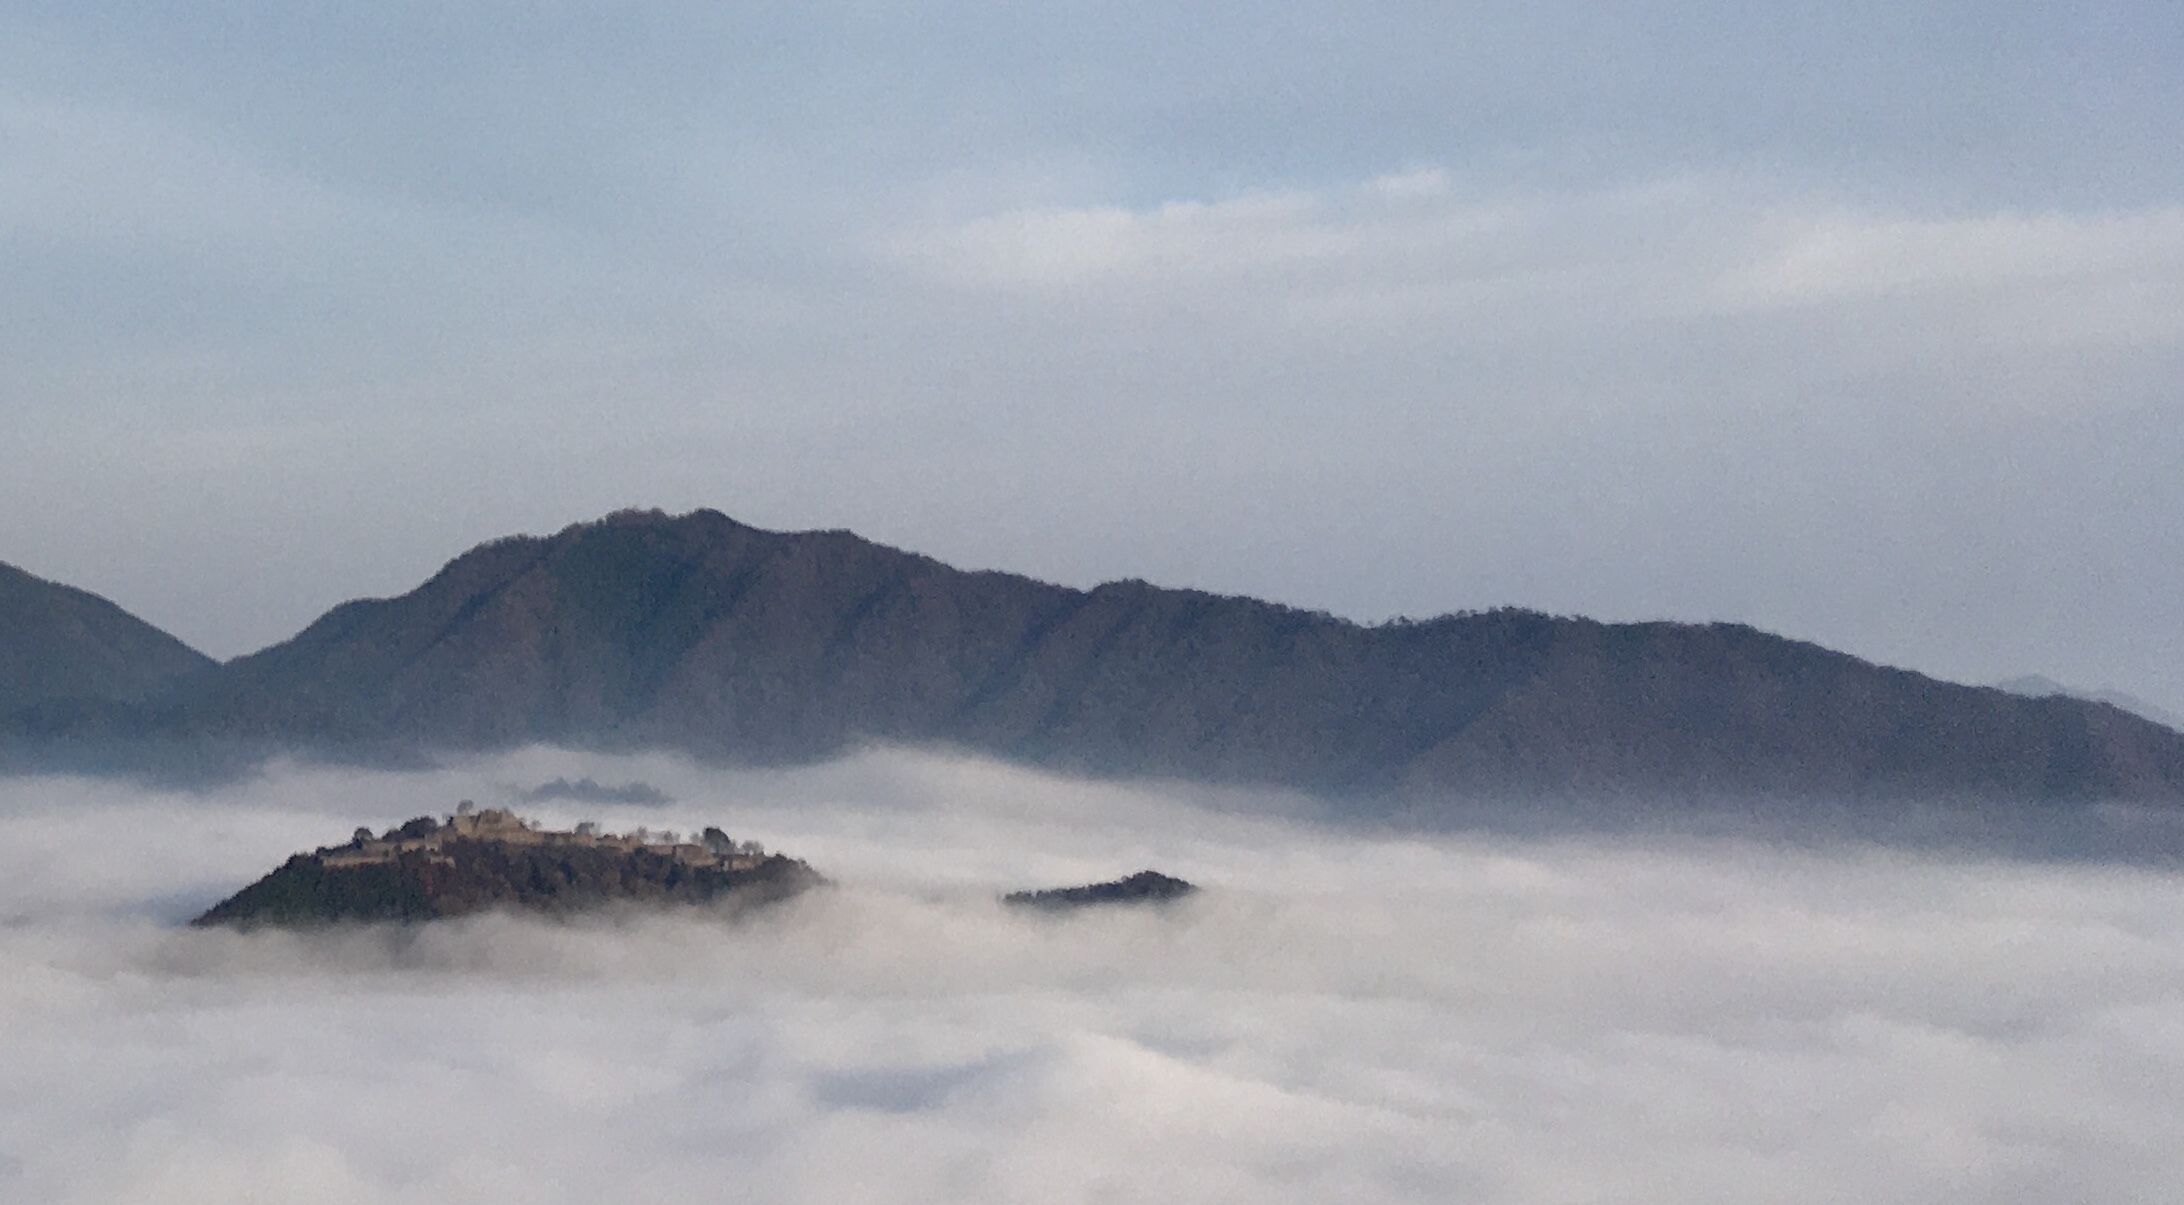
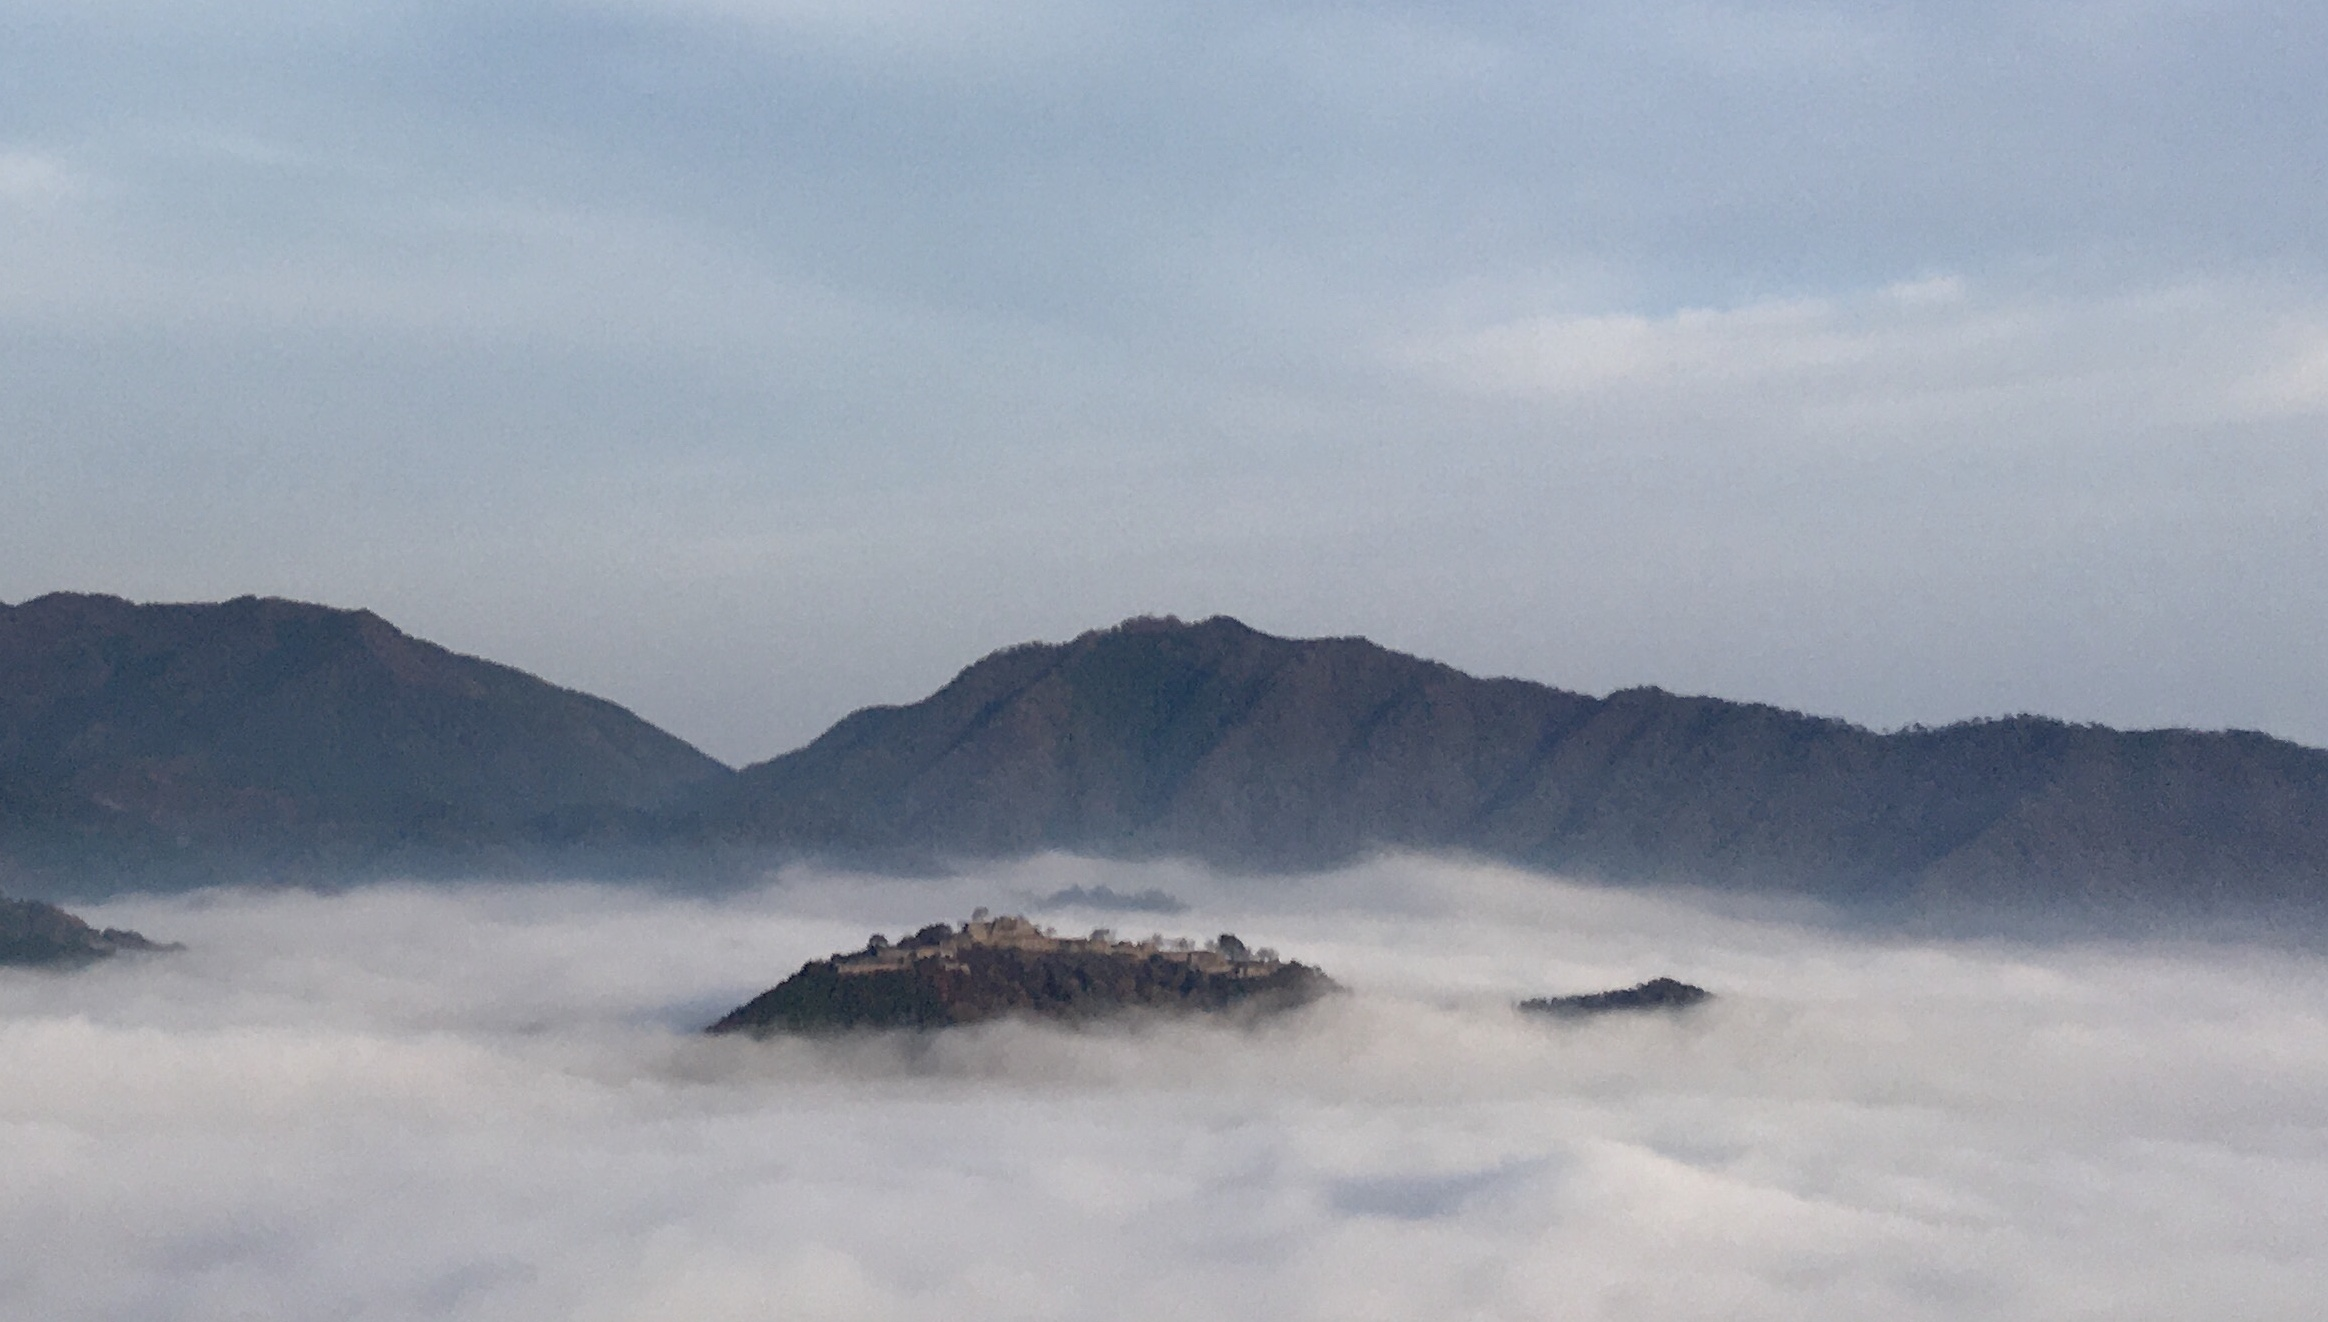
edit jumbotron in css

diff --git a/app/assets/stylesheets/application.css b/app/assets/stylesheets/application.css
@@ -14,8 +14,9 @@
  *= require_self
  */
 
-.container {
-  background-image: url("takedajo1.jpg");
-  height: 600px;
-  background-size:cover;
+.jumbotron { 
+  background:url(takedajo1.jpg) 
+  center no-repeat; 
+  background-size: cover;
+  height: 500px; 
 }
